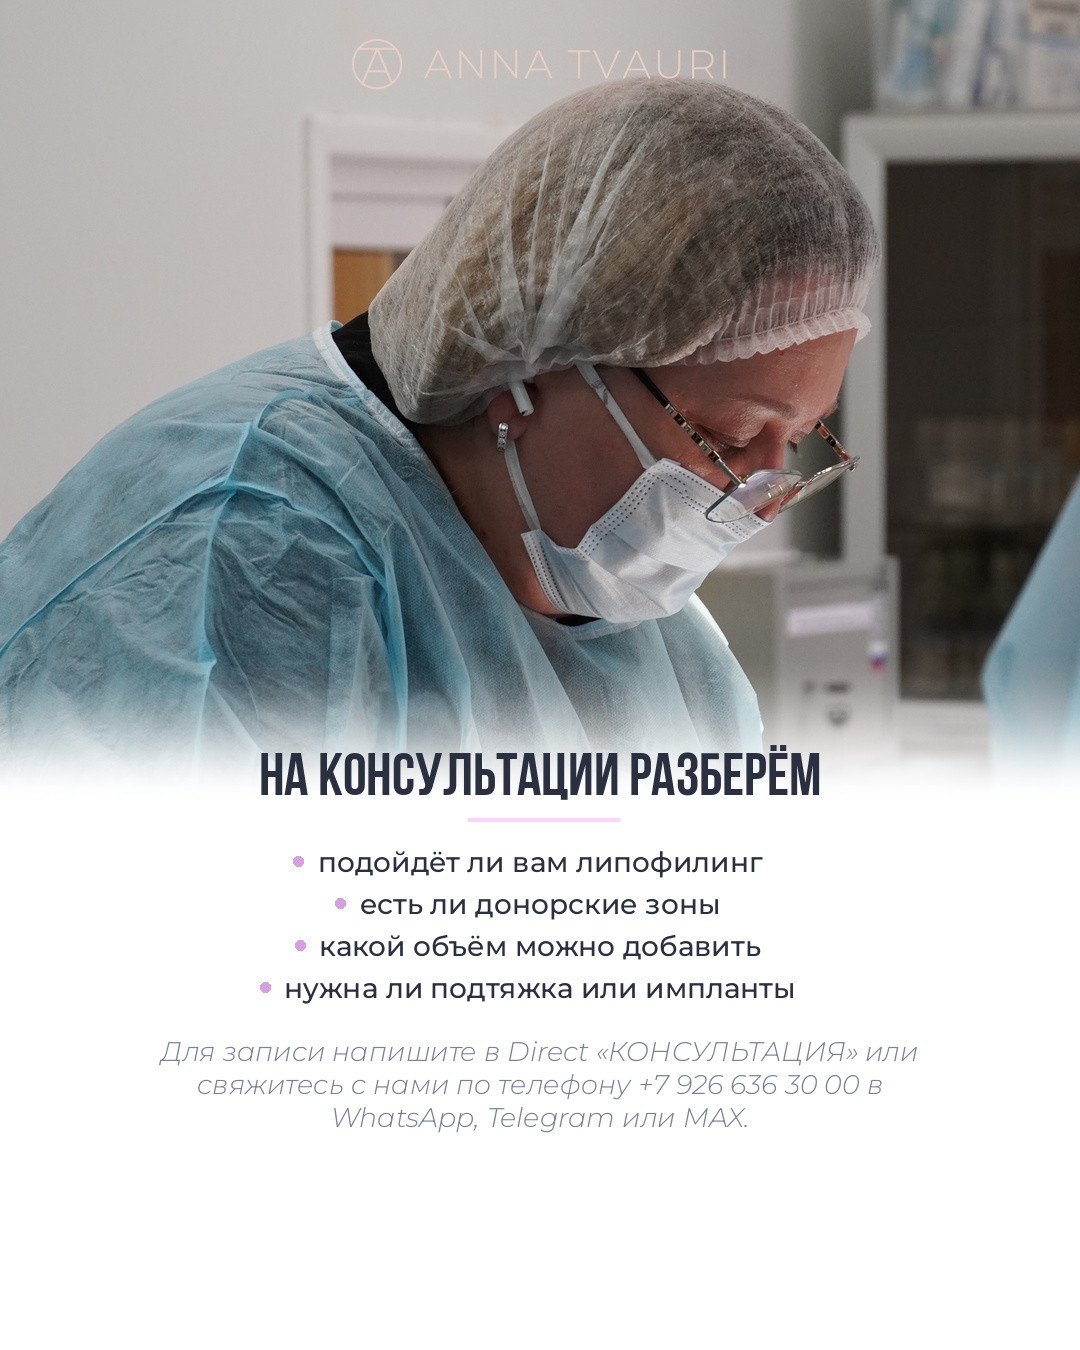
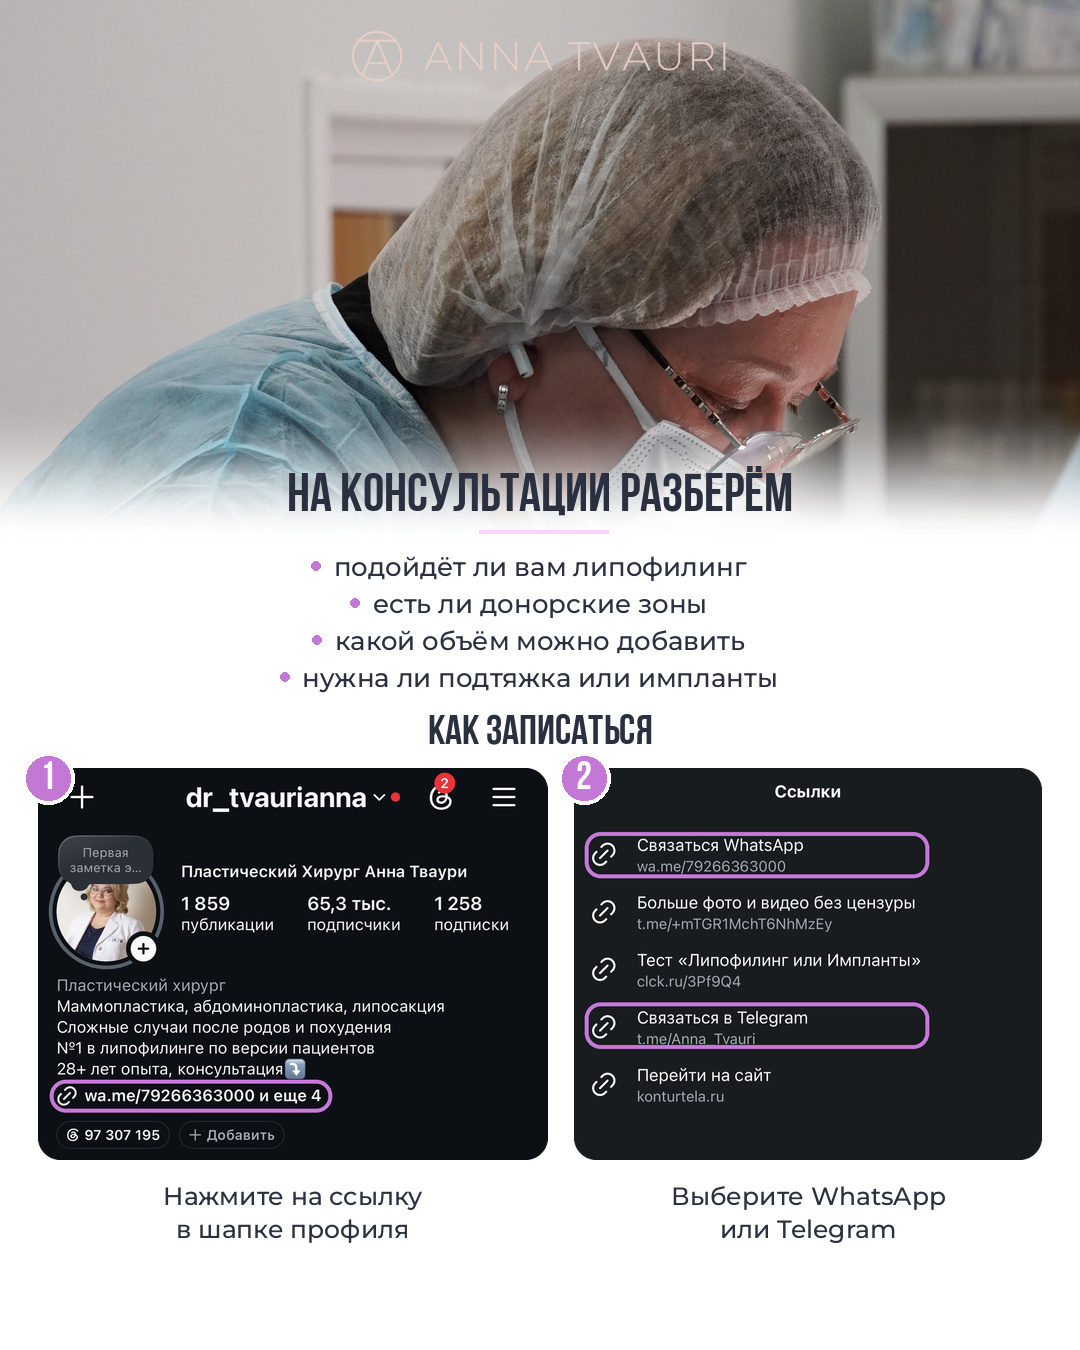
Lipofilling carousel: НАШЕ ДО badge on slides 5 and 7, booking steps with profile screenshots on the last slide
Claude-Session: https://claude.ai/code/session_01XB7jWmRDxB52StXcRzXaWE

diff --git a/tools/carousel_lipofilling.py b/tools/carousel_lipofilling.py
@@ -120,30 +120,90 @@ def cut(name, a, b, mode="crop", top=None, bot=None):
                     "-c:a", "aac", "-b:a", "160k", "-movflags", "+faststart", f"{OUT}/{name}.mp4"], check=True)
 
 
+ASSETS = os.path.join(os.path.dirname(os.path.dirname(os.path.abspath(__file__))), "carousel_lipofilling", "src")
+LILAC_D = (196, 120, 214)  # lilac dark enough to read on white and on the dark screenshots
+
+
+def before_badge(path, cx, cy, r=165):
+    """round inset with the patient's "before" photo and a navy НАШЕ ДО tag"""
+    from PIL import Image, ImageDraw
+    S = 3
+    im = Image.open(os.path.join(ASSETS, "before_front.jpg")).convert("RGB")
+    sq = im.crop((245, 190, 1225, 1170)).resize((2 * r * S, 2 * r * S), Image.LANCZOS)
+    m = Image.new("L", sq.size, 0); ImageDraw.Draw(m).ellipse((0, 0, sq.width - 1, sq.height - 1), fill=255)
+    hi = Image.new("RGBA", (W * S, H * S), (0, 0, 0, 0)); d = ImageDraw.Draw(hi)
+    ring = 7 * S
+    d.ellipse(((cx - r) * S - ring, (cy - r) * S - ring, (cx + r) * S + ring, (cy + r) * S + ring), fill=ct.WHITE + (255,))
+    hi.paste(sq, ((cx - r) * S, (cy - r) * S), m)
+    ov = Image.new("RGBA", (W, H), (0, 0, 0, 0))
+    # soft shadow under the badge
+    sh = Image.new("L", (W, H), 0); ImageDraw.Draw(sh).ellipse((cx - r - 4, cy - r + 6, cx + r + 4, cy + r + 14), fill=150)
+    from PIL import ImageFilter
+    sh = sh.filter(ImageFilter.GaussianBlur(14)); shadow = Image.new("RGBA", (W, H), ct.GRAPHITE + (0,)); shadow.putalpha(sh)
+    ov.alpha_composite(shadow); ov.alpha_composite(hi.resize((W, H), Image.LANCZOS))
+    d = ImageDraw.Draw(ov); f = ct.bebas(44); t = "НАШЕ ДО"; tw = f.getlength(t)
+    y = cy + r - 26
+    d.rounded_rectangle((cx - tw / 2 - 22, y, cx + tw / 2 + 22, y + 54), radius=14, fill=(16, 46, 70, 255))
+    d.text((cx, y + 29), t, font=f, fill=ct.WHITE, anchor="mm")
+    ov.save(path)
+
+
+def add_badge(name, cx, cy, r=165):
+    src = f"{OUT}/{name}.mp4"; tmp = f"{OUT}/_{name}_b.mp4"; png = f"{OUT}/_{name}_badge.png"
+    before_badge(png, cx, cy, r)
+    subprocess.run(["ffmpeg", "-v", "error", "-y", "-i", src, "-loop", "1", "-i", png,
+                    "-filter_complex", "[0:v][1:v]overlay=0:0:shortest=1,format=yuv420p[o]", "-map", "[o]", "-map", "0:a",
+                    "-c:v", "libx264", "-preset", "medium", "-crf", "17", "-c:a", "copy", "-movflags", "+faststart", tmp], check=True)
+    os.replace(tmp, src); os.remove(png)
+
+
 def cta():
-    """surgeon from the reel on top, consultation card below (same layout as the lift carousel)"""
+    """surgeon on top, what the consultation covers, then how to book: the profile header and its links, annotated"""
     from PIL import Image, ImageDraw
     import numpy as np
-    PH = 800
-    im = ct.load_photo("DSC00888.JPG"); sc = W / im.width; sh = im.height * sc; off = 0.17 * sh
+    PH = 540
+    im = ct.load_photo("DSC00888.JPG"); sc = W / im.width; sh = im.height * sc; off = 0.19 * sh
     ph = im.resize((W, round(sh)), Image.LANCZOS).crop((0, int(off), W, int(off) + PH)).convert("RGBA")
     c = Image.new("RGBA", (W, H), ct.WHITE + (255,)); c.alpha_composite(ph, (0, 0))
-    ct.put_logo(c, y=64, alpha=0.95)
+    ct.put_logo(c, y=56, alpha=0.95)
     arr = np.zeros((H, W, 4), np.uint8); arr[..., :3] = 255
-    p = np.clip((np.arange(H)[:, None] - (PH - 150)) / 150, 0, 1); p = np.broadcast_to(p, (H, W))
+    p = np.clip((np.arange(H)[:, None] - (PH - 140)) / 140, 0, 1); p = np.broadcast_to(p, (H, W))
     arr[..., 3] = (p * p * (3 - 2 * p) * 255).astype(np.uint8)
     c.alpha_composite(Image.fromarray(arr, "RGBA"))
-    bw = 840; x = (W - bw) // 2
-    b = ct.Block(bw, "center").head("На консультации разберём", 60, 10, color=ct.INK).rule(0.14, 22)
-    y = b.draw(c, x, PH - 50)
+    bw = 900; x = (W - bw) // 2
+    y = ct.Block(bw, "center").head("На консультации разберём", 54, 8, color=ct.INK).rule(0.12, 16).draw(c, x, PH - 70)
     items = ["подойдёт ли вам липофилинг", "есть ли донорские зоны", "какой объём можно добавить",
              "нужна ли подтяжка или импланты"]
-    f = ct.mont(28, 500); d = ImageDraw.Draw(c)
+    f = ct.mont(26, 500); d = ImageDraw.Draw(c)
     for it in items:
         tw = f.getlength(it); x0 = (W - tw) / 2
-        d.ellipse((x0 - 24, y + 12, x0 - 14, y + 22), fill=(214, 160, 222)); d.text((x0, y), it, font=f, fill=ct.INK); y += 42
-    y += 22
-    ct.Block(bw, "center").ital("Для записи напишите в Direct «КОНСУЛЬТАЦИЯ» или свяжитесь с нами по телефону +7 926 636 30 00 в WhatsApp, Telegram или MAX.", 27, 0, color=ct.MIST).draw(c, x, y)
+        d.ellipse((x0 - 22, y + 11, x0 - 13, y + 20), fill=LILAC_D); d.text((x0, y), it, font=f, fill=ct.INK); y += 37
+    y += 14
+    fh = ct.bebas(42); t = "КАК ЗАПИСАТЬСЯ"; d.text(((W - fh.getlength(t)) / 2, y), t, font=fh, fill=ct.INK); y += 56
+    # screenshots: profile header (step 1) and the links sheet (step 2)
+    shots = [("profile_header.jpg", [(30, 805, 760, 890)], "1", "Нажмите на ссылку\nв шапке профиля"),
+             ("profile_links.jpg", [(30, 180, 1000, 310), (30, 660, 1000, 790)], "2", "Выберите WhatsApp\nили Telegram")]
+    hgt = 392; gap = 26
+    ims = [Image.open(os.path.join(ASSETS, fn)).convert("RGB") for fn, *_ in shots]
+    ws = [int(i.width * hgt / i.height) for i in ims]
+    x0 = (W - sum(ws) - gap) // 2
+    S = 3
+    for (fn, boxes, num, cap), im_, w_ in zip(shots, ims, ws):
+        k = hgt / im_.height
+        card = im_.resize((w_ * S, hgt * S), Image.LANCZOS).convert("RGBA")
+        hd = ImageDraw.Draw(card)
+        for bx0, by0, bx1, by1 in boxes:
+            hd.rounded_rectangle((bx0 * k * S, by0 * k * S, bx1 * k * S, by1 * k * S), radius=16 * S, outline=LILAC_D + (255,), width=4 * S)
+        m = Image.new("L", card.size, 0); ImageDraw.Draw(m).rounded_rectangle((0, 0, card.width - 1, card.height - 1), radius=22 * S, fill=255)
+        card.putalpha(m); card = card.resize((w_, hgt), Image.LANCZOS)
+        c.alpha_composite(card, (x0, y))
+        # number badge on the card's top-left corner
+        d.ellipse((x0 - 16, y - 16, x0 + 36, y + 36), fill=LILAC_D, outline=ct.WHITE, width=4)
+        d.text((x0 + 10, y + 11), num, font=ct.bebas(40), fill=ct.WHITE, anchor="mm")
+        fc = ct.mont(25, 500)
+        for li, ln in enumerate(cap.split("\n")):
+            d.text((x0 + w_ / 2, y + hgt + 20 + li * 33), ln, font=fc, fill=ct.INK, anchor="ma")
+        x0 += w_ + gap
     ct.save_jpg(c, f"{OUT}/08_cta.jpg")
 
 
@@ -151,4 +211,5 @@ if __name__ == "__main__":
     os.makedirs(OUT, exist_ok=True)
     for n, a, b, *m in SLIDES:
         cut(n, a, b, *m); print("done", n, flush=True)
+    add_badge("05_volume", 870, 1080); add_badge("07_this_task", 870, 1110)
     cta(); print("done cta")
